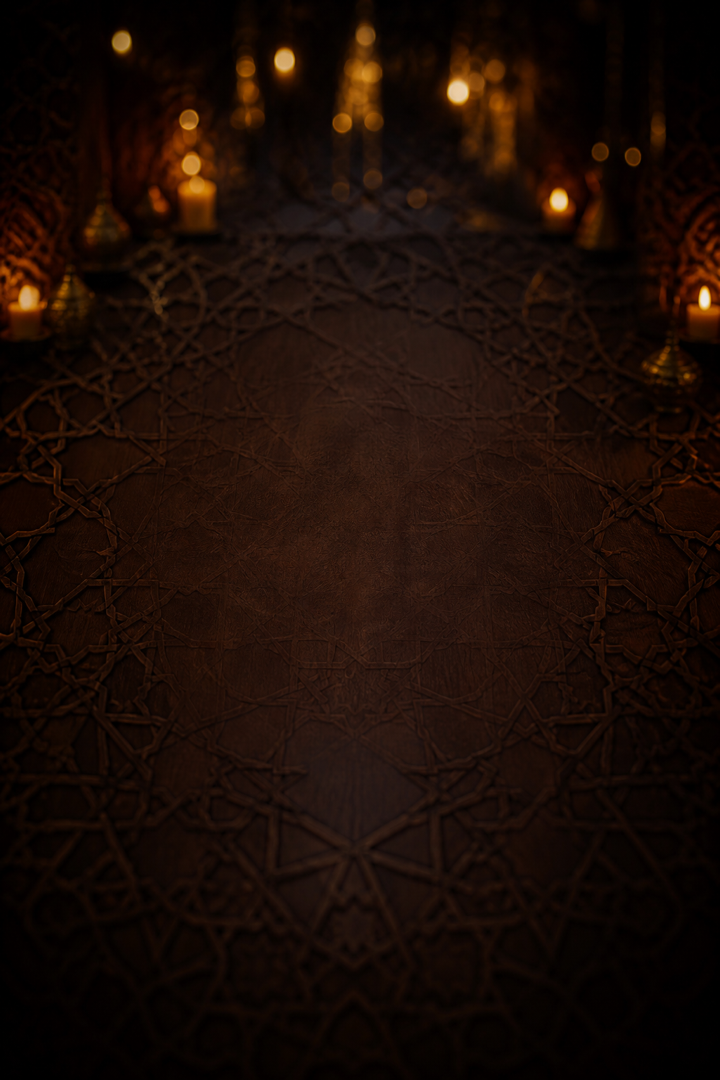
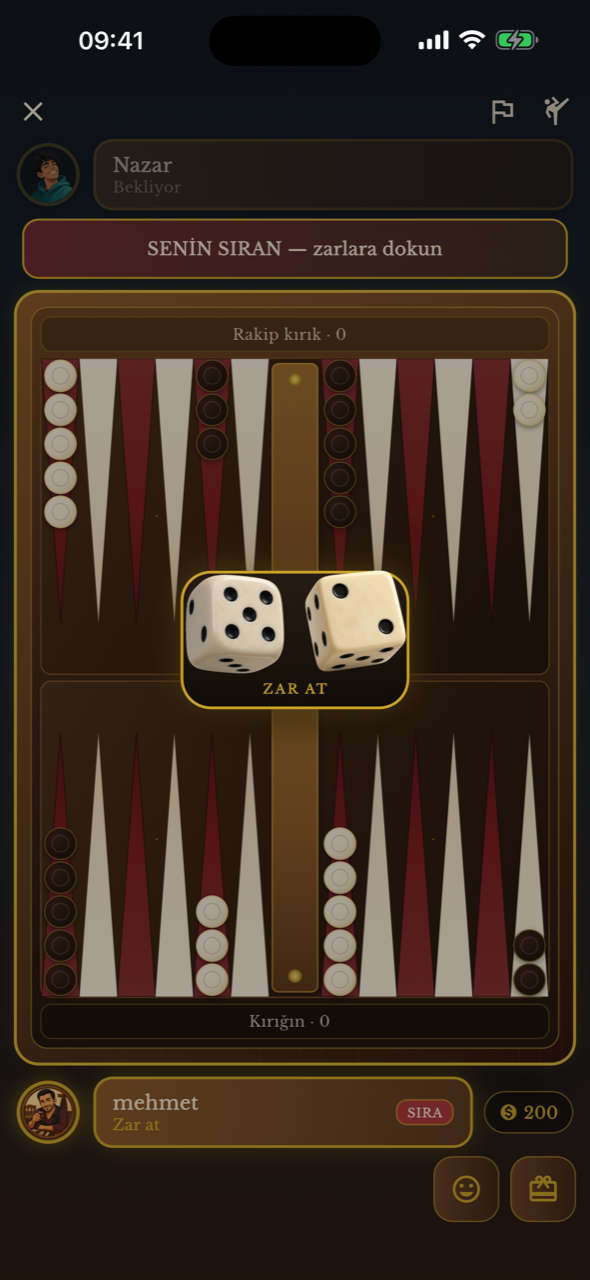
Replace Tavla and Pis Yedili mood art with real gameplay screenshots.

diff --git a/index.html b/index.html
@@ -177,7 +177,7 @@
               <div class="phone-frame">
                 <img
                   src="assets/games/tavla-online-screenshot.png"
-                  alt="Tavla Online lobi atmosferi"
+                  alt="Tavla Online oyun ekranı"
                   width="360"
                   height="640"
                   loading="lazy"
@@ -224,7 +224,7 @@
               <div class="phone-frame">
                 <img
                   src="assets/games/pis-yedili-screenshot.png"
-                  alt="Pis Yedili masa atmosferi"
+                  alt="Pis Yedili oyun ekranı"
                   width="360"
                   height="640"
                   loading="lazy"

diff --git a/tavla-online/index.html b/tavla-online/index.html
@@ -49,7 +49,7 @@
           <a class="btn" href="privacy-policy-en.html">Privacy (EN)</a>
           <a class="btn" href="https://github.com/mehmetunal/tavla-online" target="_blank" rel="noopener noreferrer">GitHub</a>
         </div>
-        <img class="screenshot" src="../assets/games/tavla-online-screenshot.png" alt="Tavla Online lobi atmosferi" width="280" loading="lazy" />
+        <img class="screenshot" src="../assets/games/tavla-online-screenshot.png" alt="Tavla Online oyun ekranı" width="280" loading="lazy" />
       </div>
     </div>
   </main>

diff --git a/pis-yedili/index.html b/pis-yedili/index.html
@@ -49,7 +49,7 @@
           <a class="btn" href="privacy-policy-en.html">Privacy (EN)</a>
           <a class="btn" href="https://github.com/mehmetunal/pis7-online-game" target="_blank" rel="noopener noreferrer">GitHub</a>
         </div>
-        <img class="screenshot" src="../assets/games/pis-yedili-screenshot.png" alt="Pis Yedili masa atmosferi" width="280" loading="lazy" />
+        <img class="screenshot" src="../assets/games/pis-yedili-screenshot.png" alt="Pis Yedili oyun ekranı" width="280" loading="lazy" />
       </div>
     </div>
   </main>

diff --git a/pis-yedili/index-en.html b/pis-yedili/index-en.html
@@ -50,7 +50,7 @@
           <a class="btn" href="privacy-policy.html">Gizlilik (TR)</a>
           <a class="btn" href="https://github.com/mehmetunal/pis7-online-game" target="_blank" rel="noopener noreferrer">GitHub</a>
         </div>
-        <img class="screenshot" src="../assets/games/pis-yedili-screenshot.png" alt="Pis Yedili felt table mood" width="280" loading="lazy" />
+        <img class="screenshot" src="../assets/games/pis-yedili-screenshot.png" alt="Pis Yedili gameplay" width="280" loading="lazy" />
       </div>
     </div>
   </main>

diff --git a/tavla-online/index-en.html b/tavla-online/index-en.html
@@ -49,7 +49,7 @@
           <a class="btn" href="privacy-policy.html">Gizlilik (TR)</a>
           <a class="btn" href="https://github.com/mehmetunal/tavla-online" target="_blank" rel="noopener noreferrer">GitHub</a>
         </div>
-        <img class="screenshot" src="../assets/games/tavla-online-screenshot.png" alt="Tavla Online lobby mood" width="280" loading="lazy" />
+        <img class="screenshot" src="../assets/games/tavla-online-screenshot.png" alt="Tavla Online gameplay" width="280" loading="lazy" />
       </div>
     </div>
   </main>
